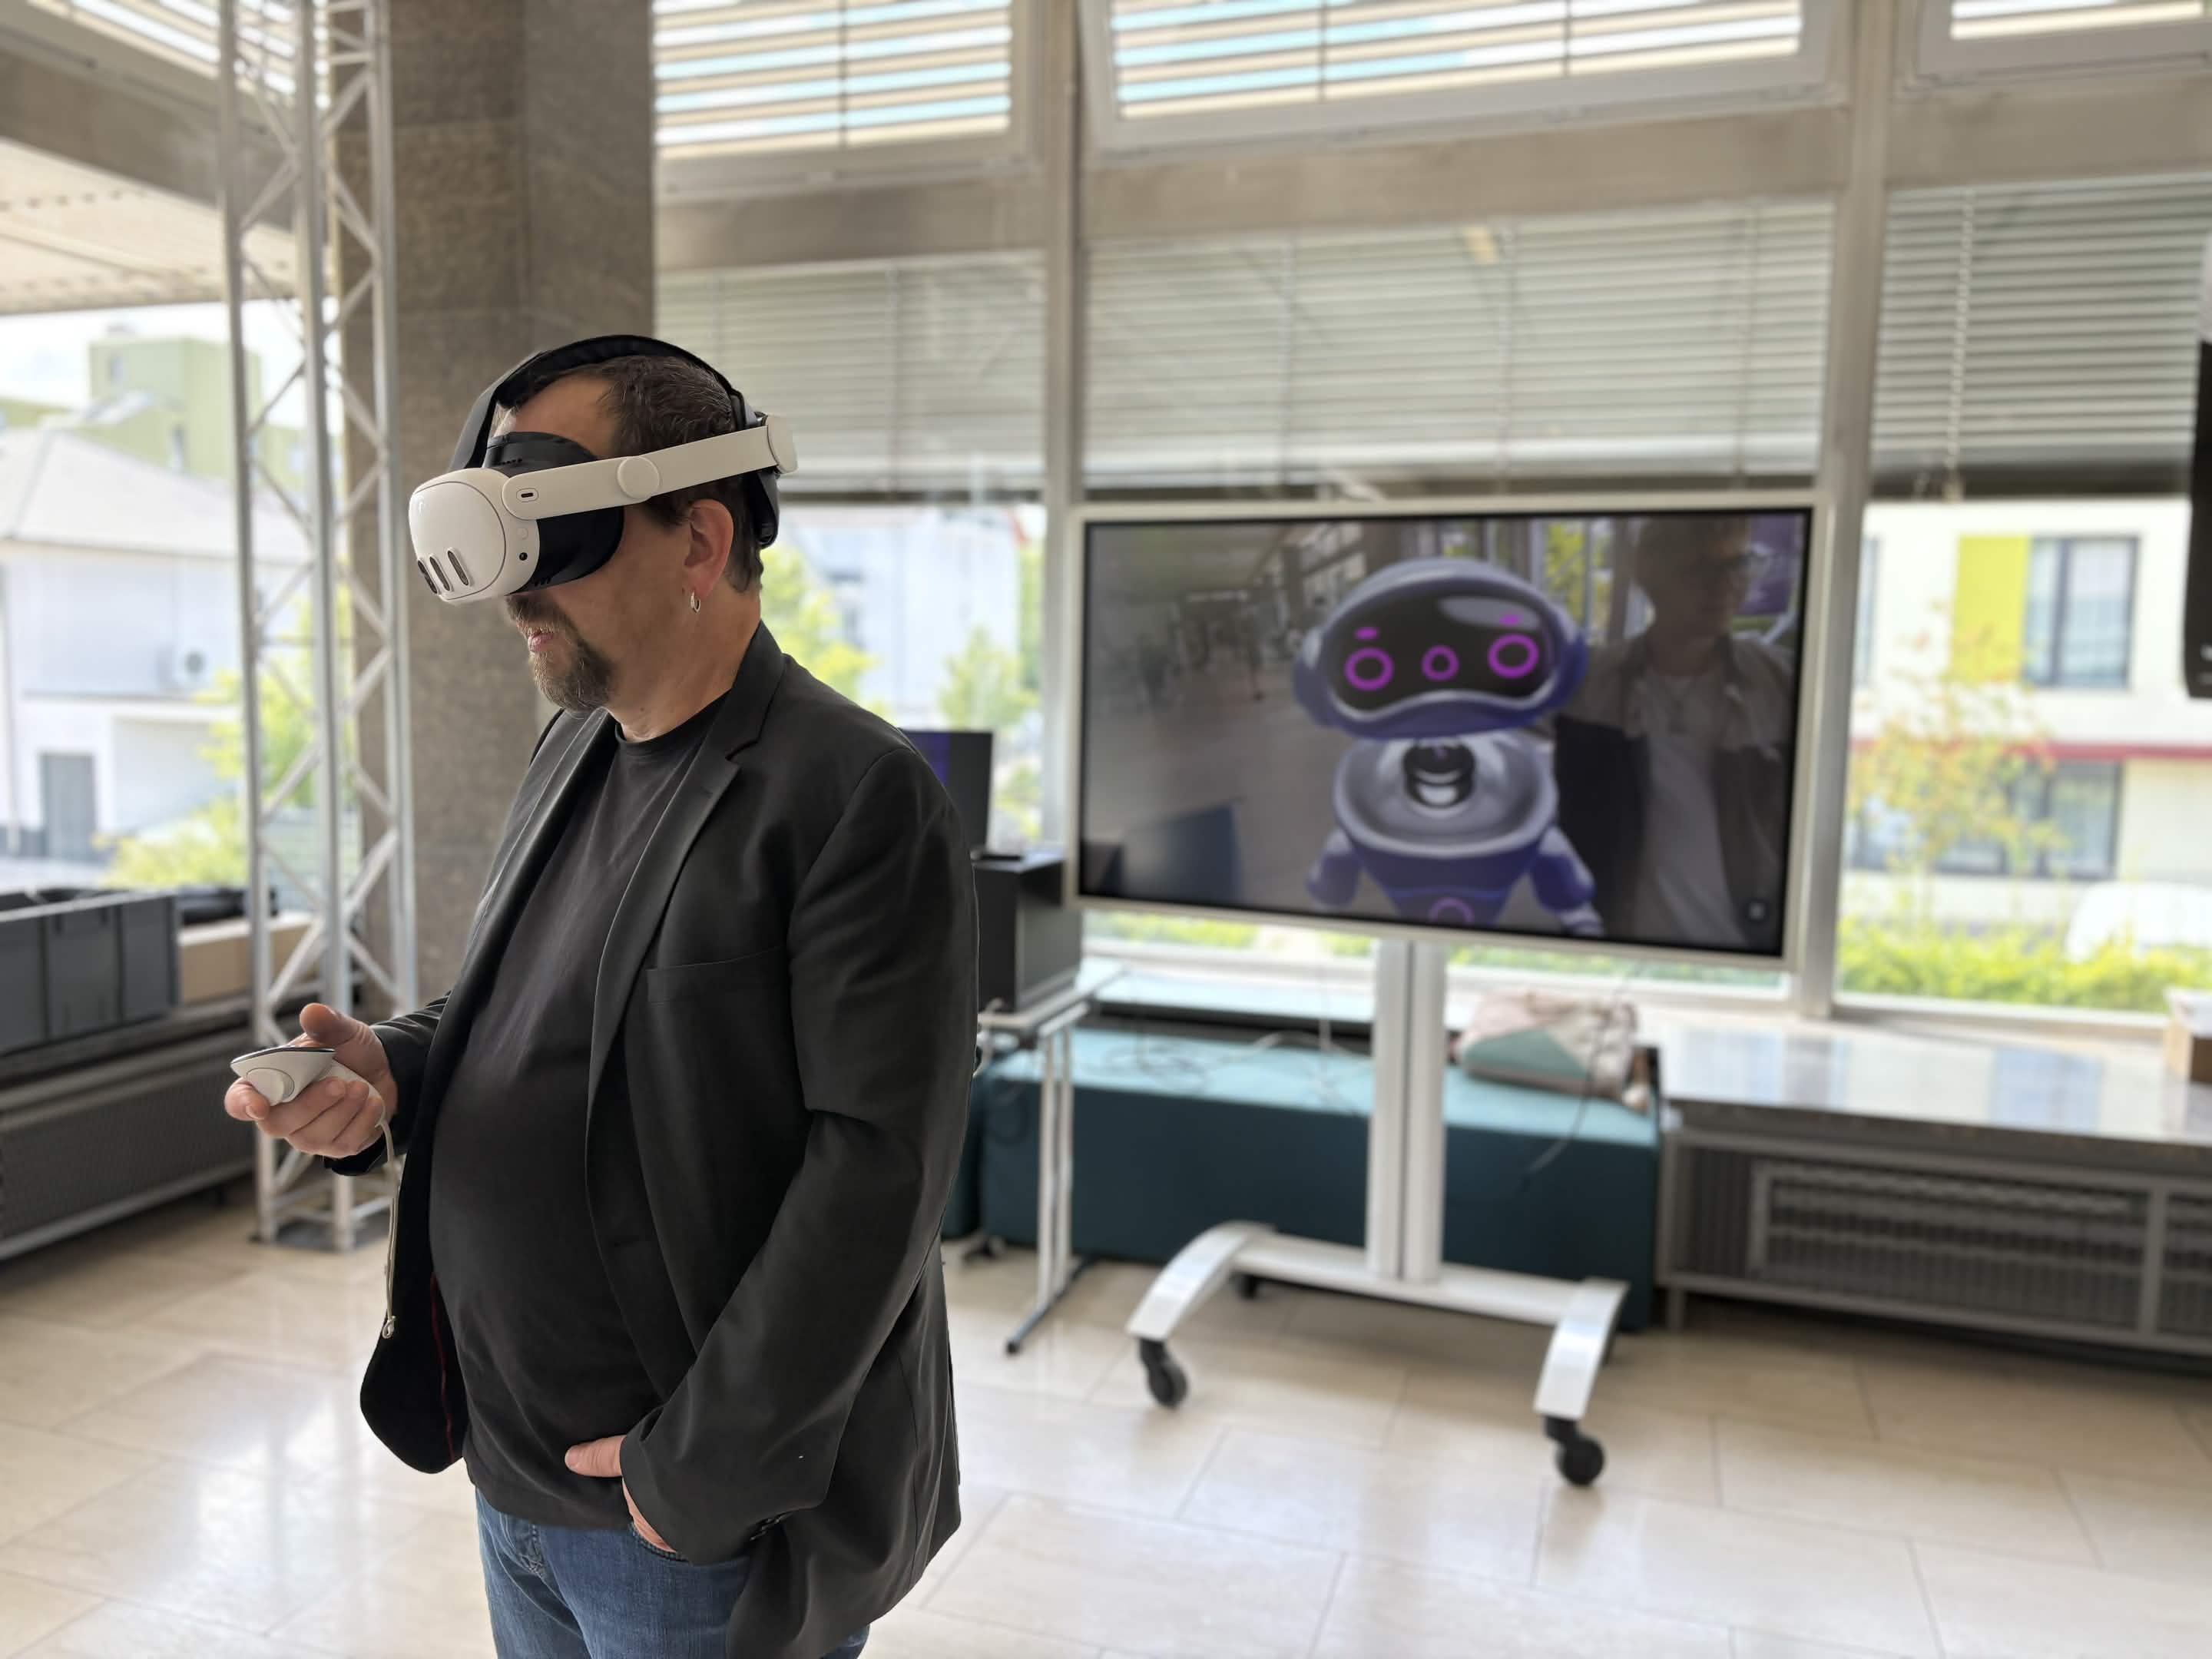
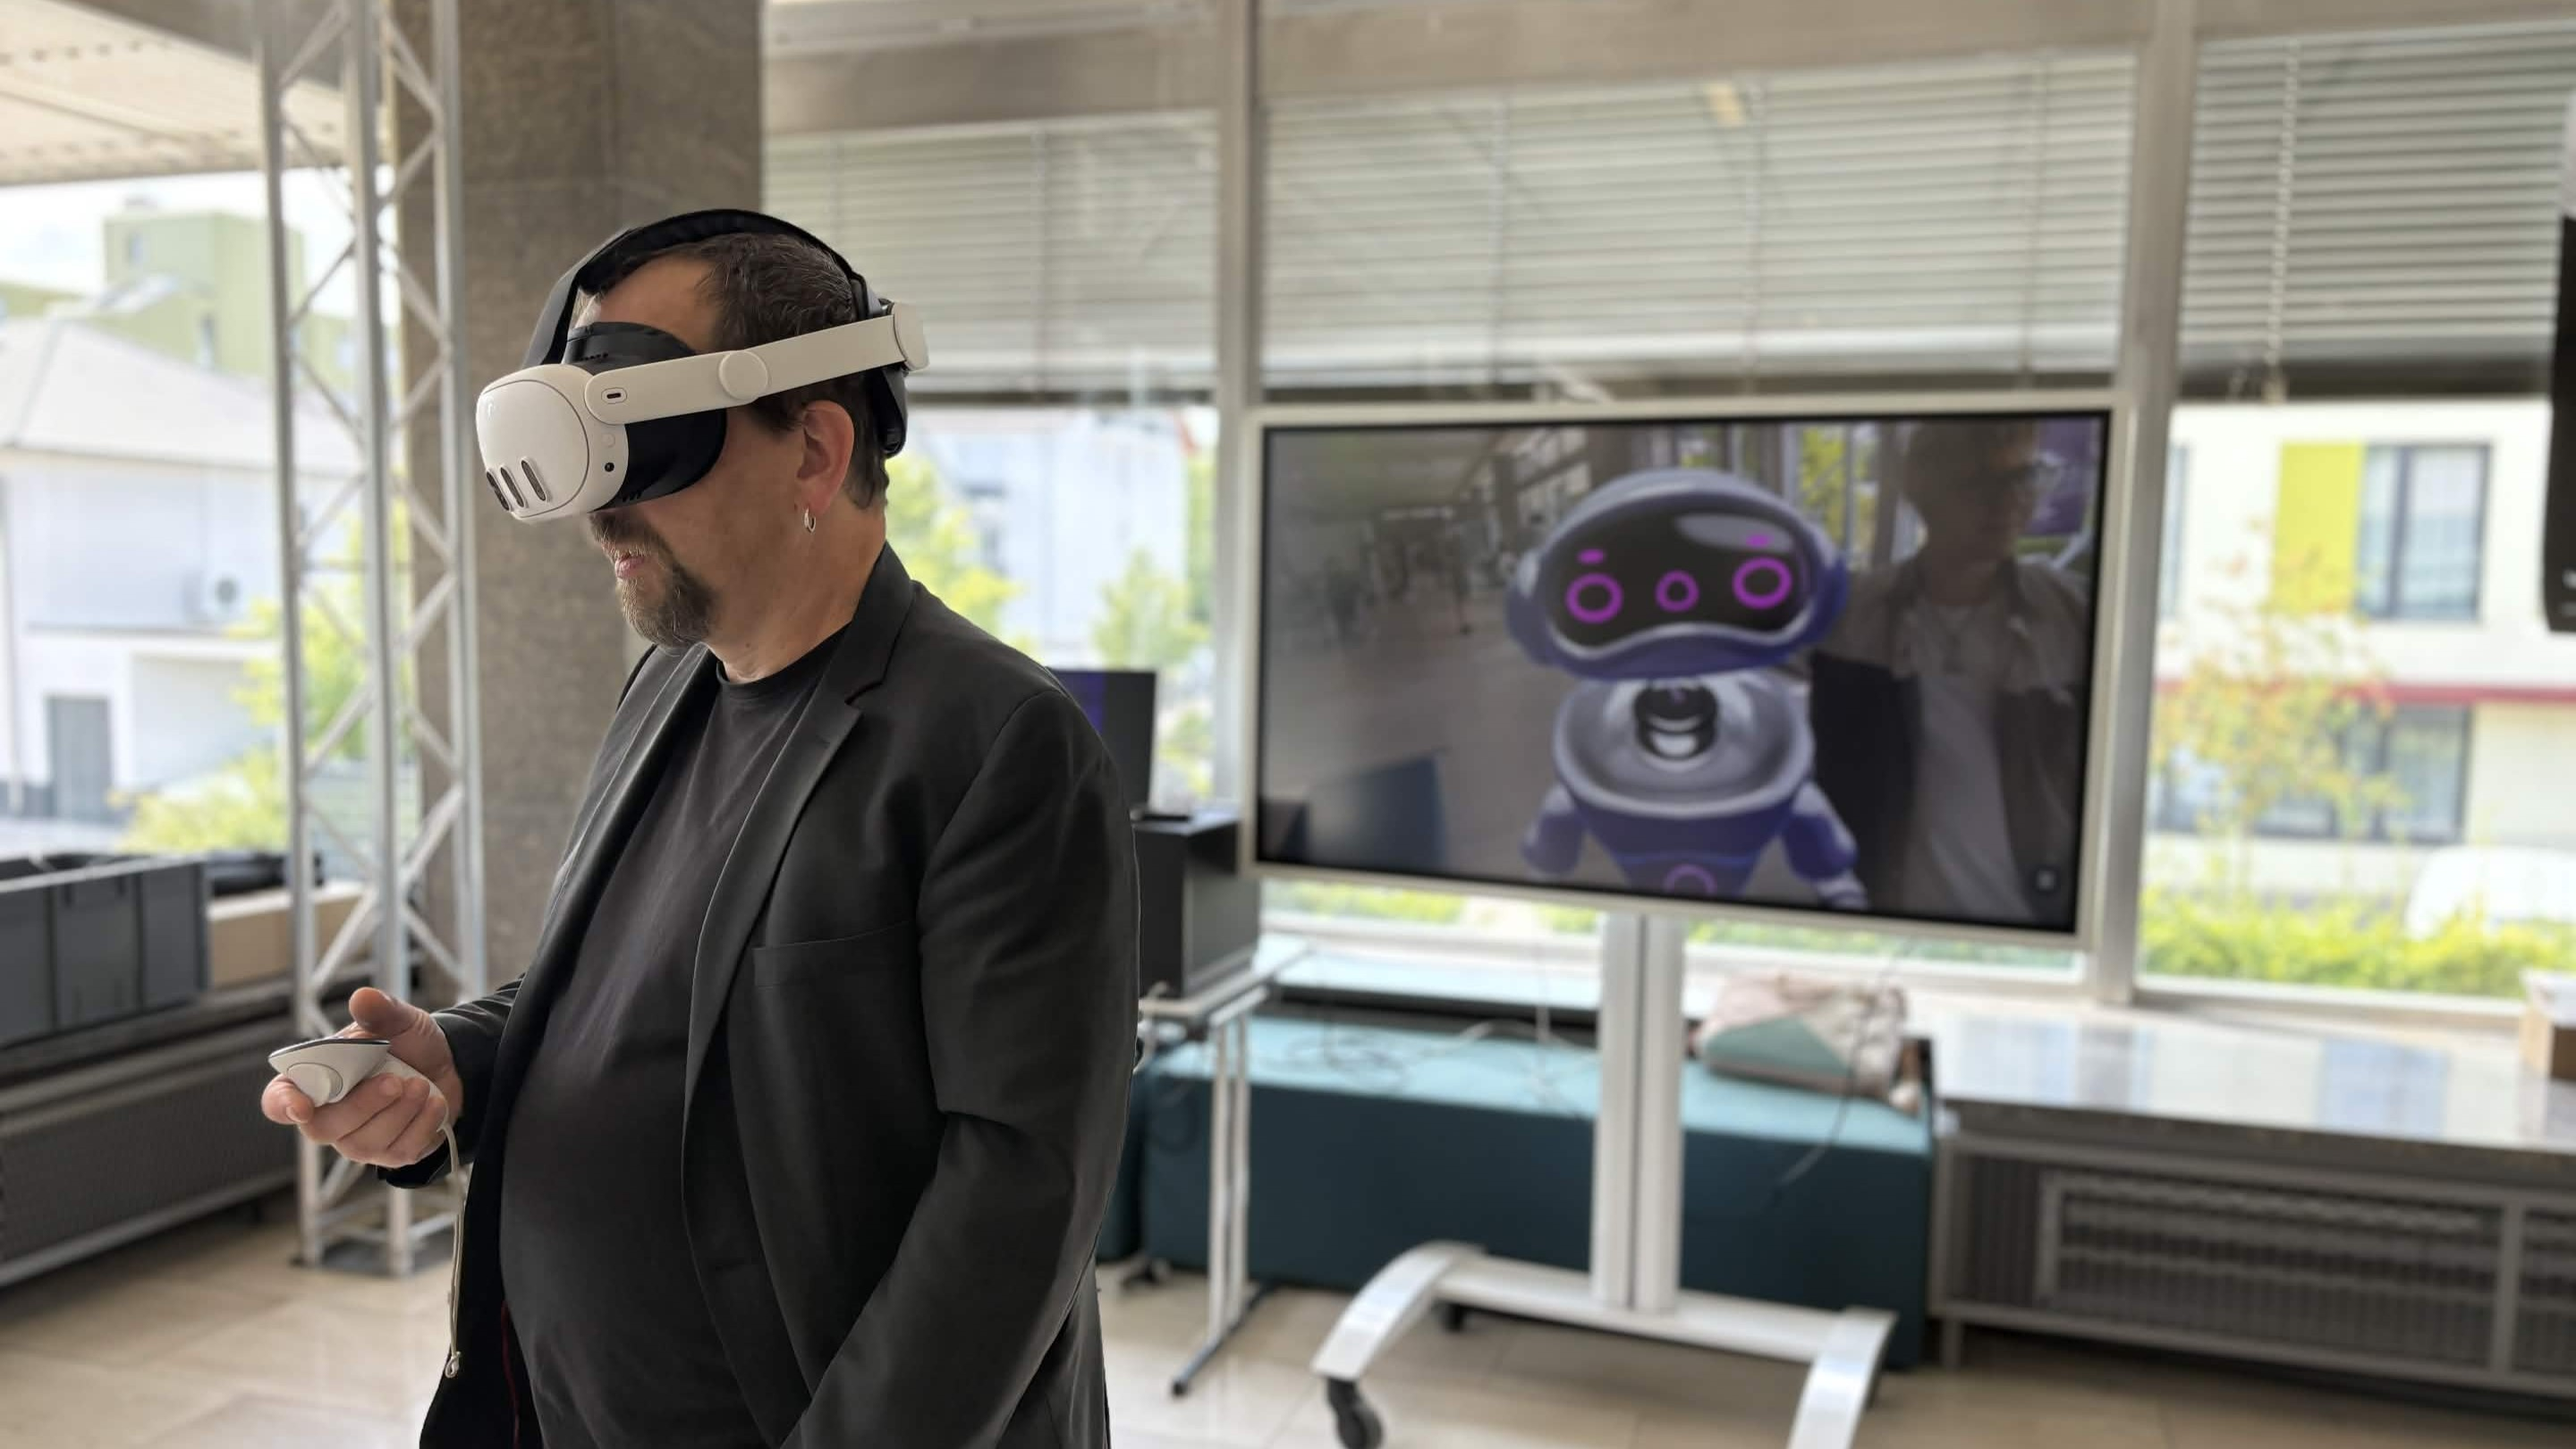
polish

diff --git a/index.html b/index.html
@@ -1,4 +1,4 @@
-<!DOCTYPE html>
+<!DOCTYPE html>
 <html lang="en">
 <head>
   <meta charset="UTF-8" />
@@ -31,7 +31,7 @@
       <div class="hero-content">
         <p class="eyebrow">Antonela Matanović · XR Developer &amp; Designer</p>
         <h1 id="hero-title">Immersive experiences built through real-time interaction and physical-digital systems.</h1>
-        <p class="hero-text">B.A. Expanded Realities student at Darmstadt University of Applied Sciences, currently working at videoreality GmbH across XR prototyping, AI-driven immersive systems and interactive exhibition experiences.</p>
+        <p class="hero-text">B.A. Augmented and Virtual Reality Design student (programme formerly known as Expanded Realities) at Darmstadt University of Applied Sciences, currently working at videoreality GmbH across XR prototyping, AI-driven immersive systems and interactive exhibition experiences.</p>
         <div class="hero-actions">
           <a href="#work" class="button button--primary">View selected work</a>
           <a href="#contact" class="button button--secondary">Contact me</a>
@@ -50,16 +50,8 @@
 
       <div class="featured-projects">
         <article class="featured-project featured-project--primary">
-          <button class="featured-project__media project-trigger" type="button" data-project="insects" aria-label="View Insect's Delegate: Brumble's Journey case study">
-            <img src="images/brumble.png" width="1474" height="829" fetchpriority="high" alt="Brumble the bee in the colourful insect-scale VR environment" />
-          </button>
-          <div class="featured-project__content">
-            <p class="project-kicker"></span>UNIVERSITY PROJECT</p>
-            <h3>Insect’s Delegate: Brumble’s Journey</h3>
-            <p>An educational VR experience for young audiences combining storytelling, exploration and interactive learning about insects and pollinators.</p>
-            <dl class="project-metadata"><div><dt>Role</dt><dd>XR Development · Interaction Design · Project Coordination</dd></div><div><dt>Format</dt><dd>VR Narrative Experience</dd></div><div><dt>Key technologies</dt><dd>Unity · C# · XR Interaction Toolkit</dd></div></dl>
-            <button class="text-action project-trigger" type="button" data-project="insects">View case study <span aria-hidden="true">↗</span></button>
-          </div>
+          <button class="featured-project__media project-trigger" type="button" data-project="arvi" aria-label="View ARVI case study"><img src="images/arvi.gif" loading="lazy" alt="ARVI, the mixed reality AI companion developed for the AVRD study programme." /></button>
+          <div class="featured-project__content"><p class="project-kicker">UNIVERSITY PROJECT</p><h3>ARVI &ndash; Autonomous Robotic Virtual Intelligence</h3><p>A mixed reality AI companion designed to welcome, support and coach the AVRD community through a fully local language model.</p><dl class="project-metadata"><div><dt>Role</dt><dd>AI System Design &middot; Dataset Development &middot; Model Deployment</dd></div><div><dt>Format</dt><dd>Mixed Reality AI Companion</dd></div><div><dt>Key technologies</dt><dd>Meta Quest 3 &middot; Unity &middot; Qwen 2.5 &middot; LoRA &middot; llama.cpp</dd></div></dl><button class="text-action project-trigger" type="button" data-project="arvi">View case study <span aria-hidden="true">&nearr;</span></button></div>
         </article>
         <article class="featured-project featured-project--primary featured-project--reverse">
           <button class="featured-project__media project-trigger" type="button" data-project="animal-garden" aria-label="View Animal Garden case study">
@@ -74,9 +66,18 @@
           </div>
         </article>
         <article class="featured-project featured-project--primary">
-          <button class="featured-project__media project-trigger" type="button" data-project="arvi" aria-label="View ARVI case study"><img src="images/arvi.gif" loading="lazy" alt="ARVI, the mixed reality AI companion developed for the AVRD study programme." /></button>
-          <div class="featured-project__content"><p class="project-kicker">UNIVERSITY PROJECT</p><h3>ARVI &ndash; Autonomous Robotic Virtual Intelligence</h3><p>A mixed reality AI companion designed to welcome, support and coach the AVRD community through a fully local language model.</p><dl class="project-metadata"><div><dt>Role</dt><dd>AI System Design &middot; Dataset Development &middot; Model Deployment</dd></div><div><dt>Format</dt><dd>Mixed Reality AI Companion</dd></div><div><dt>Key technologies</dt><dd>Meta Quest 3 &middot; Unity &middot; Qwen 2.5 &middot; LoRA &middot; llama.cpp</dd></div></dl><button class="text-action project-trigger" type="button" data-project="arvi">View case study <span aria-hidden="true">&nearr;</span></button></div>
-        </article>        <article class="featured-project featured-project--supporting">
+          <button class="featured-project__media project-trigger" type="button" data-project="insects" aria-label="View Insect's Delegate: Brumble's Journey case study">
+            <img src="images/brumble.png" width="1474" height="829" fetchpriority="high" alt="Brumble the bee in the colourful insect-scale VR environment" />
+          </button>
+          <div class="featured-project__content">
+            <p class="project-kicker"></span>UNIVERSITY PROJECT</p>
+            <h3>Insect’s Delegate: Brumble’s Journey</h3>
+            <p>An educational VR experience for young audiences combining storytelling, exploration and interactive learning about insects and pollinators.</p>
+            <dl class="project-metadata"><div><dt>Role</dt><dd>XR Development · Interaction Design · Project Coordination</dd></div><div><dt>Format</dt><dd>VR Narrative Experience</dd></div><div><dt>Key technologies</dt><dd>Unity · C# · XR Interaction Toolkit</dd></div></dl>
+            <button class="text-action project-trigger" type="button" data-project="insects">View case study <span aria-hidden="true">↗</span></button>
+          </div>
+        </article>
+        <article class="featured-project featured-project--supporting featured-project--reverse">
           <button class="featured-project__media project-trigger" type="button" data-project="discovering-barite" aria-label="View Discovering Barite case study">
             <img src="images/discovering barite.gif" width="1280" height="720" loading="lazy" alt="Discovering Barite mobile AR experience revealing the geology of the Spatschlucht" />
           </button>
@@ -136,10 +137,10 @@
         <h2 id="capabilities-title">Designing and building across the complete XR experience.</h2>
       </header>
       <div class="capabilities-grid">
-        <article><p class="capability-number">01</p><h3>XR Development</h3><ul><li>Unity and C#</li><li>XR Interaction Toolkit</li><li>AR Foundation and Vuforia</li><li>Real-time interaction systems</li></ul></article>
-        <article><p class="capability-number">02</p><h3>Experience &amp; interaction design</h3><ul><li>User journeys and onboarding</li><li>Interaction prototyping</li><li>Spatial interface design</li><li>User testing and iteration</li></ul></article>
-        <article><p class="capability-number">03</p><h3>Real-time &amp; spatial production</h3><ul><li>Mobile AR and VR</li><li>Real-time 3D</li><li>Physical-digital installations</li><li>Projection and exhibition integration</li></ul></article>
-        <article><p class="capability-number">04</p><h3>Production tools</h3><ul><li>Unity and Git/GitHub</li><li>Adobe Photoshop</li><li>Blender</li><li>OpenCV integration</li></ul></article>
+        <article><p class="capability-number">01</p><h3>XR Development</h3><ul><li>Unity application development</li><li>AR, VR and Mixed Reality systems</li><li>Gameplay and interaction programming</li><li>Real-time XR prototyping</li></ul></article>
+        <article><p class="capability-number">02</p><h3>Interaction &amp; Experience Design</h3><ul><li>Spatial interaction design</li><li>User journey design</li><li>Rapid experience prototyping</li><li>User testing and iteration</li></ul></article>
+        <article><p class="capability-number">03</p><h3>AI &amp; Interactive Systems</h3><ul><li>Local LLM integration</li><li>AI personality design</li><li>Knowledge architecture</li><li>Fine-tuning workflows</li></ul></article>
+        <article><p class="capability-number">04</p><h3>Immersive Production</h3><ul><li>Interactive installations</li><li>Mobile AR and WebXR</li><li>Exhibition deployment</li><li>Physical-digital experiences</li></ul></article>
       </div>
     </section>
 
@@ -157,7 +158,7 @@
           <div class="timeline">
             <article class="timeline-item"><p class="timeline-date">Aug 2025 – Present · Work study · Hybrid</p><h3>XR Project &amp; Prototyping Assistant</h3><p>Supporting the development of internal tools and AI-driven systems for interactive museum and exhibition experiences. Focus on prototyping, pipeline integration, technical workflow development, system testing, and validation processes for production pipelines.</p></article>
             <article class="timeline-item"><p class="timeline-date">Jun 2025 – Jul 2026 · Work study · On-site</p><h3>Exhibition Support</h3><a href="https://videoreality.de/monalisasgeheimnis" target="_blank" rel="noopener" class="timeline-sub-link">TimeLeapVR ArtWorld – Mona Lisa’s Geheimnis ↗</a><p>On-site operation, supervision, and maintenance of immersive installations in a large-scale exhibition blending VR, AI, and interactive art.</p></article>
-            <article class="timeline-item"><p class="timeline-date">Feb 2025 – Jun 2025 · Internship · On-site</p><h3>XR Developer &amp; Designer Intern</h3><p>Development of interactive XR exhibition content as part of the Expanded Realities internship semester. Co-creator of Animal Garden, an interactive digital installation exhibited at TimeLeapVR ArtWorld. Testing and refinement of immersive experiences for exhibition use.</p></article>
+            <article class="timeline-item"><p class="timeline-date">Feb 2025 – Jun 2025 · Internship · On-site</p><h3>XR Developer &amp; Designer Intern</h3><p>Development of interactive XR exhibition content as part of the Augmented and Virtual Reality Design internship semester (programme formerly known as Expanded Realities). Co-creator of Animal Garden, an interactive digital installation exhibited at TimeLeapVR ArtWorld. Testing and refinement of immersive experiences for exhibition use.</p></article>
           </div>
         </article>
         <article class="employer-block">
@@ -187,7 +188,7 @@
         <div class="timeline timeline--education">
           <article class="timeline-item">
             <p class="timeline-date">Oct 2023 – Feb 2027</p>
-            <h3>B.A. Augmented and Virtual Reality Design — Expanded Realities</h3>
+            <h3>B.A. Augmented and Virtual Reality Design (formerly known as Expanded Realities)</h3>
             <a href="https://mediencampus.h-da.de/studieren/studienangebot/bachelor/augmented-and-virtual-reality-design/profile" target="_blank" rel="noopener" class="timeline-company-link"><img src="images/h_da logo.png" width="900" height="900" alt="" class="timeline-logo timeline-logo--light" /><span>Darmstadt University of Applied Sciences</span></a>
             <p>International, project-based programme taught in English, integrating artistic, technological, cultural, and methodological dimensions of immersive media production. Led by lecturers with industry backgrounds, the programme includes an internship semester and real-client projects. Facilities include a motion capture studio, VR/AR lab, film and sound studios, and a usability testing lab. 7 semesters · Dieburg, Germany.</p>
           </article>

diff --git a/style.css b/style.css
@@ -1,4 +1,4 @@
-/* 1. Design tokens */
+/* 1. Design tokens */
 :root {
   --bg: #080909;
   --surface: #0d0f0f;
@@ -614,10 +614,6 @@ main, .site-footer {
 .project-controls dt { color: var(--text); font-weight: 600; }
 .project-controls dd { margin: 0; color: var(--muted); }
 .project-external-links { display: flex; flex-wrap: wrap; gap: 10px; margin-top: 12px; }
-.arvi-pipeline { display: grid; gap: 0; margin-top: 22px; }
-.arvi-pipeline span { position: relative; padding: 15px 18px; border: 1px solid var(--line); border-radius: 12px; background: var(--surface); color: var(--text); text-align: center; }
-.arvi-pipeline span:not(:last-child) { margin-bottom: 28px; }
-.arvi-pipeline span:not(:last-child)::after { content: "\2193"; position: absolute; top: calc(100% + 4px); left: 50%; color: var(--soft); transform: translateX(-50%); }
 #popup-inner-content .project-external-link { display: inline-block; border: 1px solid var(--text); border-radius: 999px; padding: 10px 18px; color: var(--text); text-decoration: none; transition: color 0.18s ease, background 0.18s ease, transform 0.18s ease; }
 #popup-inner-content .project-external-link:hover { background: var(--text); color: var(--bg); transform: translateY(-2px); }
 /* Restrained Title Case interface */